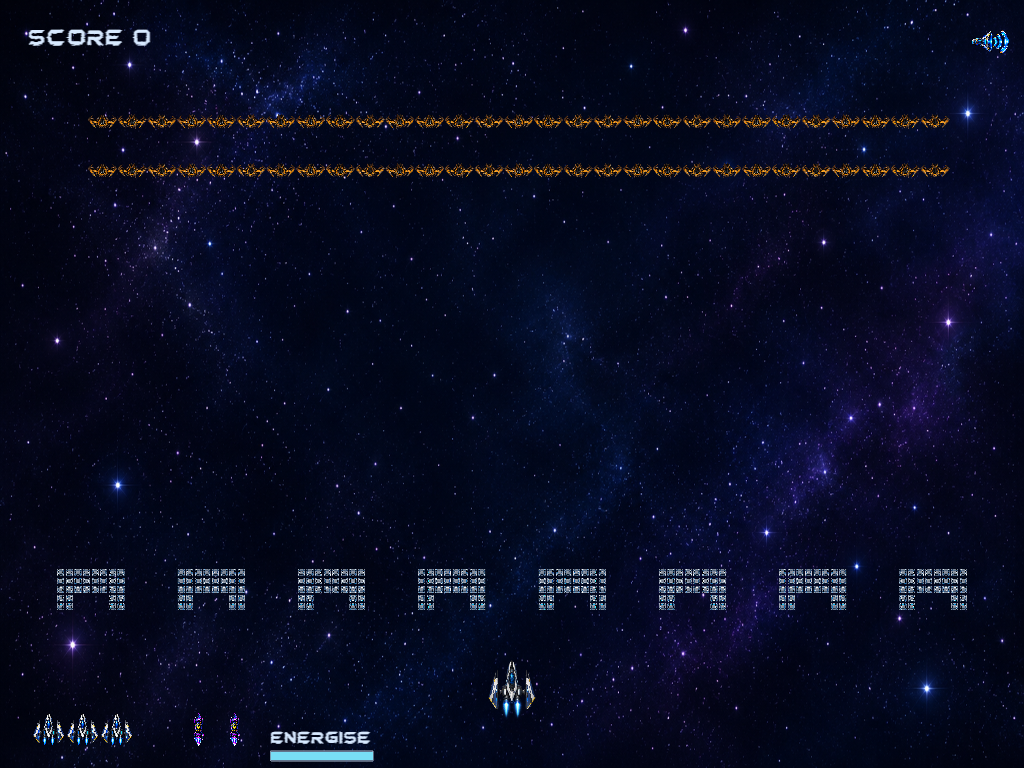
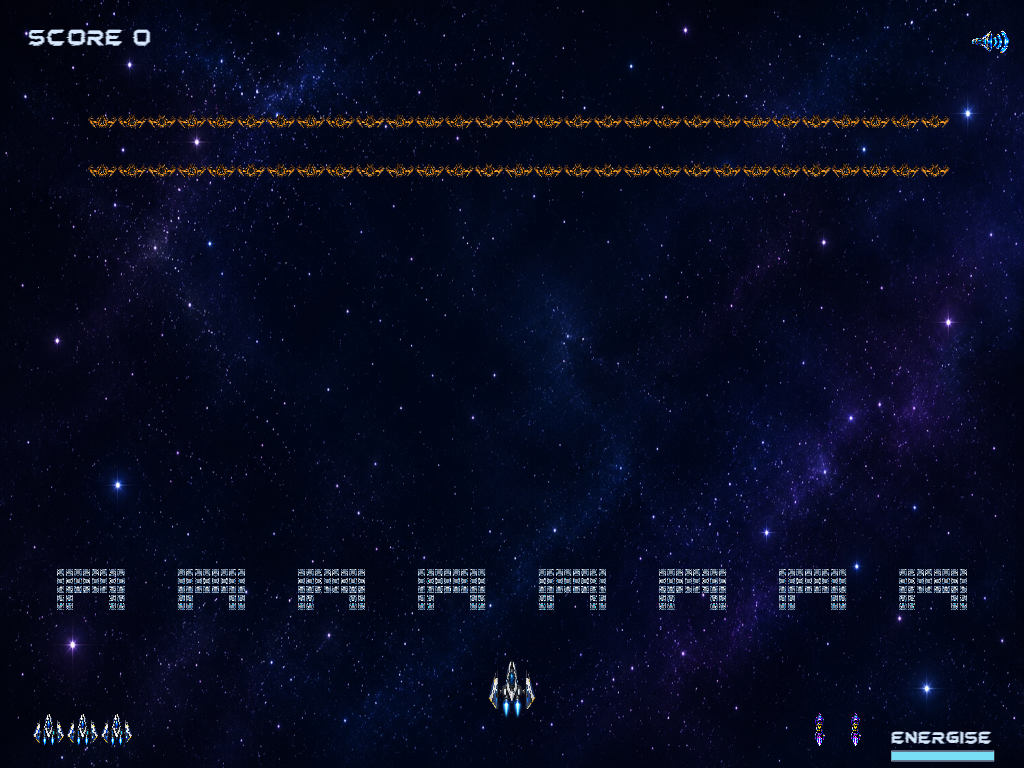
fix level1 hud placement and swept laser collisions

Changed region(s): [[0.1875, 0.9375, 0.375, 1.0], [0.875, 0.9375, 0.9688, 1.0], [0.7812, 0.9375, 0.8438, 0.9688]]

diff --git a/game/src/scenes/Level1Scene.ts b/game/src/scenes/Level1Scene.ts
@@ -15,6 +15,10 @@ import { ScoreSystem } from '../systems/ScoreSystem';
 
 type TerminalState = 'complete' | 'failed';
 type PlayerState = 'active' | 'hit' | 'regenerating';
+type SweptHitTarget =
+  | { kind: 'player'; body: Phaser.Physics.Arcade.Body }
+  | { kind: 'scout'; body: Phaser.Physics.Arcade.Body; scout: Phaser.Physics.Arcade.Sprite }
+  | { kind: 'shield'; body: Phaser.Physics.Arcade.Body; tile: Phaser.Physics.Arcade.Image };
 
 const SHIELD_MATRIX = [
   [1, 1, 1, 1, 1, 1, 1, 1],
@@ -26,6 +30,7 @@ const SHIELD_MATRIX = [
 
 interface HostileQaApi {
   firePlayerLaserAtScout: (index?: number, offsetX?: number) => Record<string, unknown>;
+  firePlayerLaserForVisual: (offsetX?: number) => Record<string, unknown>;
   fireEnemyLaserAtPlayer: (offsetX?: number) => Record<string, unknown>;
   fireEnemyLaserAtShield: (index?: number) => Record<string, unknown>;
   firePlayerLaserAtShield: (index?: number) => Record<string, unknown>;
@@ -173,7 +178,9 @@ export class Level1Scene extends Phaser.Scene {
     this.updateNukeRearm(deltaMs);
     this.#player.clampToPlayfield(this.#layout);
     this.updateScouts(time);
+    this.resolveSweptProjectileCollisions();
     this.cleanupProjectiles();
+    this.recordProjectilePreviousPositions();
     this.checkTerminalConditions();
     this.publishQaState();
   }
@@ -324,8 +331,7 @@ export class Level1Scene extends Phaser.Scene {
     const barWidth = Phaser.Math.Clamp(this.#layout.viewport.width * 0.1, 72, 170);
     const lifeSpacing = 34;
     const nukeSpacing = 36;
-    const lifeClusterRight = left + 20 + (this.#lifeIcons.length - 1) * lifeSpacing + 26;
-    const nukeBarX = Phaser.Math.Clamp(lifeClusterRight + 128, left + 220, right - barWidth);
+    const nukeBarX = right - barWidth;
     this.#scoreText.setPosition(left, this.#layout.hudSafeRect.y + 12);
     this.#soundIcon.setPosition(right - 4, this.#layout.hudSafeRect.y + 28);
     this.#lifeIcons.forEach((icon, index) => {
@@ -352,12 +358,10 @@ export class Level1Scene extends Phaser.Scene {
       this.damagePlayer(true);
     });
     this.physics.add.overlap(this.#enemyLasers, this.#shieldTiles, (laser, tile) => {
-      this.destroyProjectile(laser as Phaser.Physics.Arcade.Image);
-      this.destroyShieldTile(tile as Phaser.Physics.Arcade.Image, true);
+      this.handleEnemyLaserShieldOverlap(laser as Phaser.Physics.Arcade.Image, tile as Phaser.Physics.Arcade.Image);
     });
     this.physics.add.overlap(this.#playerLasers, this.#shieldTiles, (laser, tile) => {
-      this.destroyProjectile(laser as Phaser.Physics.Arcade.Image);
-      this.destroyShieldTile(tile as Phaser.Physics.Arcade.Image, false);
+      this.handlePlayerLaserShieldOverlap(laser as Phaser.Physics.Arcade.Image, tile as Phaser.Physics.Arcade.Image);
     });
     this.physics.add.overlap(this.#nukes, this.#scouts, (nuke, scout) => {
       this.handleNukeScoutOverlap(nuke as Phaser.Physics.Arcade.Sprite, scout as Phaser.Physics.Arcade.Sprite);
@@ -476,6 +480,8 @@ export class Level1Scene extends Phaser.Scene {
     const body = laser.body as Phaser.Physics.Arcade.Body;
     body.enable = true;
     body.setSize(this.#layout.projectileBodySize.width / laser.scaleX, this.#layout.projectileBodySize.height / laser.scaleY, true);
+    laser.setData('previousBodyCenterX', body.x + body.width / 2);
+    laser.setData('previousBodyCenterY', body.y + body.height / 2);
   }
 
   private reflowActiveProjectiles(): void {
@@ -486,6 +492,8 @@ export class Level1Scene extends Phaser.Scene {
       laser.setDisplaySize(this.#layout.projectileSize.width, this.#layout.projectileSize.height);
       const body = laser.body as Phaser.Physics.Arcade.Body;
       body.setSize(this.#layout.projectileBodySize.width / laser.scaleX, this.#layout.projectileBodySize.height / laser.scaleY, true);
+      laser.setData('previousBodyCenterX', body.x + body.width / 2);
+      laser.setData('previousBodyCenterY', body.y + body.height / 2);
     }
     for (const nuke of this.#nukes.getChildren() as Phaser.Physics.Arcade.Sprite[]) {
       if (!nuke.active) {
@@ -511,6 +519,106 @@ export class Level1Scene extends Phaser.Scene {
     laser.setData('spent', true);
     this.destroyProjectile(laser);
     this.damagePlayer();
+  }
+
+  private handleEnemyLaserShieldOverlap(laser: Phaser.Physics.Arcade.Image, tile: Phaser.Physics.Arcade.Image): void {
+    if (laser.getData('spent')) {
+      return;
+    }
+    laser.setData('spent', true);
+    this.destroyProjectile(laser);
+    this.destroyShieldTile(tile, true);
+  }
+
+  private handlePlayerLaserShieldOverlap(laser: Phaser.Physics.Arcade.Image, tile: Phaser.Physics.Arcade.Image): void {
+    if (laser.getData('spent')) {
+      return;
+    }
+    laser.setData('spent', true);
+    this.destroyProjectile(laser);
+    this.destroyShieldTile(tile, false);
+  }
+
+  private resolveSweptProjectileCollisions(): void {
+    for (const laser of this.#playerLasers.getChildren() as Phaser.Physics.Arcade.Image[]) {
+      if (!laser.active || laser.getData('spent')) {
+        continue;
+      }
+      const candidates: SweptHitTarget[] = [
+        ...this.getActiveShieldTiles().map((tile) => ({ kind: 'shield' as const, tile, body: tile.body as Phaser.Physics.Arcade.Body })),
+        ...this.getActiveScouts().map((scout) => ({ kind: 'scout' as const, scout, body: scout.body as Phaser.Physics.Arcade.Body })),
+      ];
+      const hit = this.findSweptHit(laser, -1, candidates);
+      if (hit?.kind === 'shield') {
+        this.handlePlayerLaserShieldOverlap(laser, hit.tile);
+      } else if (hit?.kind === 'scout') {
+        this.handlePlayerLaserScoutOverlap(laser, hit.scout);
+      }
+    }
+
+    for (const laser of this.#enemyLasers.getChildren() as Phaser.Physics.Arcade.Image[]) {
+      if (!laser.active || laser.getData('spent')) {
+        continue;
+      }
+      const playerBody = this.#player.sprite.body as Phaser.Physics.Arcade.Body;
+      const candidates: SweptHitTarget[] = [
+        ...this.getActiveShieldTiles().map((tile) => ({ kind: 'shield' as const, tile, body: tile.body as Phaser.Physics.Arcade.Body })),
+        { kind: 'player', body: playerBody },
+      ];
+      const hit = this.findSweptHit(laser, 1, candidates);
+      if (hit?.kind === 'shield') {
+        this.handleEnemyLaserShieldOverlap(laser, hit.tile);
+      } else if (hit?.kind === 'player') {
+        this.handleEnemyLaserPlayerOverlap(laser);
+      }
+    }
+  }
+
+  private findSweptHit(
+    projectile: Phaser.Physics.Arcade.Image,
+    directionY: -1 | 1,
+    targets: SweptHitTarget[],
+  ): SweptHitTarget | null {
+    const projectileBody = projectile.body as Phaser.Physics.Arcade.Body;
+    const currentX = projectileBody.x + projectileBody.width / 2;
+    const currentY = projectileBody.y + projectileBody.height / 2;
+    const previousX = Number(projectile.getData('previousBodyCenterX') ?? currentX);
+    const previousY = Number(projectile.getData('previousBodyCenterY') ?? currentY);
+    const minY = Math.min(previousY, currentY) - projectileBody.height / 2;
+    const maxY = Math.max(previousY, currentY) + projectileBody.height / 2;
+    const centerX = (previousX + currentX) / 2;
+    const halfWidth = projectileBody.width / 2;
+    let best: { target: SweptHitTarget; entry: number } | null = null;
+
+    for (const target of targets) {
+      if (!target.body.enable) {
+        continue;
+      }
+      const left = target.body.x - halfWidth;
+      const right = target.body.x + target.body.width + halfWidth;
+      const top = target.body.y - projectileBody.height / 2;
+      const bottom = target.body.y + target.body.height + projectileBody.height / 2;
+      if (centerX < left || centerX > right || maxY < top || minY > bottom) {
+        continue;
+      }
+      const entry = directionY > 0 ? top : bottom;
+      if (!best || (directionY > 0 ? entry < best.entry : entry > best.entry)) {
+        best = { target, entry };
+      }
+    }
+
+    return best?.target ?? null;
+  }
+
+  private recordProjectilePreviousPositions(): void {
+    for (const laser of [...this.#playerLasers.getChildren(), ...this.#enemyLasers.getChildren()] as Phaser.Physics.Arcade.Image[]) {
+      if (!laser.active) {
+        continue;
+      }
+      const body = laser.body as Phaser.Physics.Arcade.Body;
+      laser.setData('previousBodyCenterX', body.x + body.width / 2);
+      laser.setData('previousBodyCenterY', body.y + body.height / 2);
+    }
   }
 
   private destroyScoutBody(scout: Phaser.Physics.Arcade.Sprite, awardScore: boolean): void {
@@ -812,6 +920,10 @@ export class Level1Scene extends Phaser.Scene {
         }
         const laser = this.firePlayerLaser(Number.POSITIVE_INFINITY, scout.x + offsetX, scout.y + this.#layout.scoutSize.height * 0.95);
         return { fired: Boolean(laser), scoutX: scout.x, laserX: laser?.x, offsetX };
+      },
+      firePlayerLaserForVisual: (offsetX = 0) => {
+        const laser = this.firePlayerLaser(Number.POSITIVE_INFINITY, this.#player.sprite.x + offsetX, this.#player.sprite.y - this.#layout.playerSize.height * 0.52);
+        return { fired: Boolean(laser), playerX: this.#player.sprite.x, laserX: laser?.x, offsetX };
       },
       fireEnemyLaserAtPlayer: (offsetX = 0) => {
         const laser = this.#enemyLasers.get(this.#player.sprite.x + offsetX, this.#player.sprite.y - this.#layout.playerSize.height * 0.42, RUNTIME_ASSETS.projectile.enemyLaser.key) as Phaser.Physics.Arcade.Image | null;

diff --git a/game/src/systems/PlayfieldLayout.ts b/game/src/systems/PlayfieldLayout.ts
@@ -100,10 +100,10 @@ export function createPlayfieldLayout(width: number, height: number): PlayfieldL
     projectileSize,
     nukeProjectileSize: { width: clamp(playerSize.height * 0.8, 48, 68), height: clamp(playerSize.height * 0.26, 16, 24) },
     nukeBurstSize: { width: clamp(playerSize.height * 2.6, 150, 220), height: clamp(playerSize.height * 2.6, 150, 220) },
-    playerBodySize: { width: playerSize.width * 0.48, height: playerSize.height * 0.62 },
-    scoutBodySize: { width: scoutSize.width * 0.74, height: scoutSize.height * 0.62 },
+    playerBodySize: { width: playerSize.width * 0.64, height: playerSize.height * 0.72 },
+    scoutBodySize: { width: scoutSize.width * 0.86, height: scoutSize.height * 0.74 },
     shieldBodySize: { width: shieldTile * 0.92, height: shieldTile * 0.92 },
-    projectileBodySize: { width: projectileSize.height * 0.78, height: projectileSize.width * 0.86 },
-    nukeProjectileBodySize: { width: clamp(playerSize.height * 0.22, 14, 21), height: clamp(playerSize.height * 0.72, 44, 62) },
+    projectileBodySize: { width: projectileSize.height * 1.08, height: projectileSize.width * 0.96 },
+    nukeProjectileBodySize: { width: clamp(playerSize.height * 0.32, 18, 28), height: clamp(playerSize.height * 0.86, 52, 72) },
   };
 }

diff --git a/docs/internal_governance/registers/GG_REGISTER_EVIDENCE.md b/docs/internal_governance/registers/GG_REGISTER_EVIDENCE.md
@@ -100,6 +100,6 @@
 | GG-DEVTEAM-010-REV2-EV-005 | GALACTIC_GUNNERS_DEVTEAM_HANDOFF_IN_010_REV2 | sealed Handoff-Out REV2 | `docs/internal_governance/handoff_out/_archive/GALACTIC_GUNNERS_DEVTEAM_HANDOFF_OUT_010_REV2/04_SEALED_RETURN/GALACTIC_GUNNERS_DEVTEAM_HANDOFF_OUT_010_REV2.md` | recorded externally after sealing | 2026-08-25 | CURRENT | Non-self-referential REV2 Handoff-Out record; final pushed SHA and local/remote equality recorded externally after final push. |
 | GG-DEVTEAM-010-REV3-EV-001 | GALACTIC_GUNNERS_DEVTEAM_HANDOFF_IN_010_REV3 | inbound commission and transport preservation | `docs/internal_governance/handoff_in/_archive/GALACTIC_GUNNERS_DEVTEAM_HANDOFF_IN_010_REV3/` | direct pasted commission SHA-256 7CD02D0795B26EE9BE90659E407980221AB7C2C56E0CD8E6ECDA590E56195B9D; transport ZIP SHA-256 2A73CE8AD99B36600E942916731D3BBED58C1BFCD205147A6528A36B230D3912 | 2026-08-25 | CURRENT | REV3 Founder/CTO commission preserved; transport pack hashed, inventoried, unpacked into inspectable governed archive files and removed from POST_BOX. |
 | GG-DEVTEAM-010-REV3-EV-002 | GALACTIC_GUNNERS_DEVTEAM_HANDOFF_IN_010_REV3 | scale and gameplay composition correction evidence | `docs/internal_governance/evidence/GALACTIC_GUNNERS_DEVTEAM_HANDOFF_IN_010_REV3/REV3_SCALE_GAMEPLAY_CORRECTION.md` | PASS | 2026-08-25 | CURRENT | Records REV2->REV3 scale table, laser source/render/body dimensions, projectile speed derivation, 8-bunker proof, nuke asset IDs/hashes, nuke/rearm trace, pause trace and scope exclusions. |
-| GG-DEVTEAM-010-REV3-EV-003 | GALACTIC_GUNNERS_DEVTEAM_HANDOFF_IN_010_REV3 | hostile runtime and visual composition evidence | `docs/internal_governance/evidence/GALACTIC_GUNNERS_DEVTEAM_HANDOFF_IN_010_REV3/browser_runtime/` | runtime-hostile-verification.json SHA-256 4A51B01C2B09661C1FB275D59BA0C820ED144F9A8E50C401D0242C60DAA47F4A | 2026-08-25 | CURRENT | Verifies expected player/scout visual contracts, 58 enemies, 8 bunkers, 256 shield tiles, 1.18 lower shield gap, real-origin laser hit/near-miss, laser visual/body mapping, bottom-left icon-only lives/nukes with `ENERGISE` bar, sound top-right, scout orientation, pause/resume, retained REV2 hostile cases and unexpected console/network failures 0. |
+| GG-DEVTEAM-010-REV3-EV-003 | GALACTIC_GUNNERS_DEVTEAM_HANDOFF_IN_010_REV3 | hostile runtime and visual composition evidence | `docs/internal_governance/evidence/GALACTIC_GUNNERS_DEVTEAM_HANDOFF_IN_010_REV3/browser_runtime/` | runtime-hostile-verification.json SHA-256 420124D7B32D17CA86E314500D11EFBA3138CFFA7A6CADBC4419E27DE739CD1F | 2026-08-25 | CURRENT | Verifies expected player/scout visual contracts, 58 enemies, 8 bunkers, 256 shield tiles, 1.18 lower shield gap, real-origin laser hit/near-miss, widened laser/body mapping, swept collision checks, enemy laser left/center/right player-body lane hits, bottom-left icon-only lives, bottom-right icon-only nukes with `ENERGISE` bar, sound top-right, scout orientation, pause/resume, retained REV2 hostile cases and unexpected console/network failures 0. |
 | GG-DEVTEAM-010-REV3-EV-004 | GALACTIC_GUNNERS_DEVTEAM_HANDOFF_IN_010_REV3 | quality and Docker runtime evidence | `docs/internal_governance/evidence/GALACTIC_GUNNERS_DEVTEAM_HANDOFF_IN_010_REV3/QUALITY_RESULTS.md` | PASS | 2026-08-25 | CURRENT | Records `npm run quality`, Docker rebuild/start and hostile runtime PASS at `http://localhost:3002`. |
 | GG-DEVTEAM-010-REV3-EV-005 | GALACTIC_GUNNERS_DEVTEAM_HANDOFF_IN_010_REV3 | sealed Handoff-Out REV3 | `docs/internal_governance/handoff_out/_archive/GALACTIC_GUNNERS_DEVTEAM_HANDOFF_OUT_010_REV3/04_SEALED_RETURN/GALACTIC_GUNNERS_DEVTEAM_HANDOFF_OUT_010_REV3.md` | recorded externally after sealing | 2026-08-25 | CURRENT | Non-self-referential REV3 Handoff-Out record; final pushed SHA and local/remote equality recorded externally after final push. |

diff --git a/docs/internal_governance/evidence/GALACTIC_GUNNERS_DEVTEAM_HANDOFF_IN_010_REV3/REV3_SCALE_GAMEPLAY_CORRECTION.md b/docs/internal_governance/evidence/GALACTIC_GUNNERS_DEVTEAM_HANDOFF_IN_010_REV3/REV3_SCALE_GAMEPLAY_CORRECTION.md
@@ -27,7 +27,7 @@ Player laser source: `1912 x 823`, asset `GG-SPRITE-SPRITES-OBJECTS-GG-PLAYER-LA
 
[1 lines of base64/hex data omitted]
 
-Runtime display uses local horizontal beam length/thickness before rotation. Arcade body is vertical after rotation: width = core thickness, height = core length. Hostile evidence verifies rendered world bounds are taller than wide and collider bodies match the vertical beam.
+Runtime display uses local horizontal beam length/thickness before rotation. Arcade body is vertical after rotation: width = core thickness, height = core length. Hostile evidence verifies rendered world bounds are taller than wide and collider bodies match the vertical beam. Projectile and ship bodies use widened meaningful visual envelopes, and the runtime adds swept laser collision checks so frame-step movement cannot skip player/scout/shield targets.
 
 Projectile speed authority:
 
@@ -54,8 +54,8 @@ Nuke asset IDs and hashes:
 
 Runtime trace:
 
-- Initial nukes: two visible nuke icons positioned bottom-left, immediately left of the `ENERGISE` bar.
-- Initial rearm: full fixed `ENERGISE` bar positioned bottom-left to the right of the nuke icons.
+- Initial nukes: two visible nuke icons positioned bottom-right, immediately left of the `ENERGISE` bar.
+- Initial rearm: full fixed `ENERGISE` bar positioned bottom-right to the right of the nuke icons.
 - `N` fires one nuke, decrements count once, resets rearm, displays projectile, detonates into canonical burst and applies normal scout +25 scoring once per destroyed scout.
 - Count never becomes negative.
 - HUD reflects live nuke count through icon pips only; no visible numeric nuke counter is rendered.
@@ -66,7 +66,8 @@ Runtime trace:
 
 - Lives render as three owned ship icon pips only, 15% larger than the previous HUD icon; no visible numeric life counter is rendered.
 - Nukes render as owned nuke icon pips only, 15% larger than the previous HUD icon; no visible numeric nuke counter is rendered.
-- Nuke pips and the fixed `ENERGISE` bar render as a bottom-left group, with pips growing left of the bar.
+- Nuke pips and the fixed `ENERGISE` bar render as a bottom-right group, with pips growing left of the bar.
+- Enemy laser hostile verification covers left, center and right player-body lanes plus a near-miss lane.
 - Score remains top-left and sound/mute icon remains top-right.
 - Scout ships are rotated to the correct enemy orientation.
 - Explosion, nuke projectile and nuke burst runtime sheets use the owned horizontal/upright sheets to avoid boxed/clipped animation.
@@ -83,7 +84,7 @@ Runtime trace:
 ## Evidence
 
 - Hostile runtime report: `docs/internal_governance/evidence/GALACTIC_GUNNERS_DEVTEAM_HANDOFF_IN_010_REV3/browser_runtime/runtime-hostile-verification.json`.
[2 lines of base64/hex data omitted]
 - Screenshots include player/enemy laser mid-flight, nuke projectile, nuke burst, pause overlay, viewport matrix, mission complete/failed and active resize.
 - Transport receiving record: `docs/internal_governance/handoff_in/_archive/GALACTIC_GUNNERS_DEVTEAM_HANDOFF_IN_010_REV3/TRANSPORT_RECEIVING_RECORD.md`.
 - Transport member inventory: `docs/internal_governance/handoff_in/_archive/GALACTIC_GUNNERS_DEVTEAM_HANDOFF_IN_010_REV3/transport_pack_member_inventory.json`.

diff --git a/docs/internal_governance/registers/GG_REGISTER_PROJECT_STATE.md b/docs/internal_governance/registers/GG_REGISTER_PROJECT_STATE.md
@@ -22,11 +22,11 @@
 | Living Registers | `docs/internal_governance/registers` |
 | POST_BOX Closed State | boundary/readme controls only; active payload zero |
 | Production Architecture Foundation | PASS - Django/DRF backend, PostgreSQL Docker topology, Next.js web shell, Phaser/TypeScript game package, contracts and CI gates reconciled |
-| v1.0 Sprint 001 Runtime | PASS - `/play` mounts Phaser Boot/MainMenu/Level1 vertical slice with semantic PlayfieldLayout, REV3 player/scout visual contracts, 58-enemy formation, four-direction player movement, 8 shield bunkers / 256 tiles, normal/nuke projectile collisions, bottom-left icon-only lives/nukes and `ENERGISE` bar, top-left score, top-right sound, pause overlay and temporary slice terminal states |
+| v1.0 Sprint 001 Runtime | PASS - `/play` mounts Phaser Boot/MainMenu/Level1 vertical slice with semantic PlayfieldLayout, REV3 player/scout visual contracts, 58-enemy formation, four-direction player movement, 8 shield bunkers / 256 tiles, normal/nuke projectile collisions, swept laser collision reliability, bottom-left icon-only lives, bottom-right icon-only nukes and `ENERGISE` bar, top-left score, top-right sound, pause overlay and temporary slice terminal states |
 | Backend API | PASS - `/api/v1/health/`, `/api/v1/game-runs/`, `/api/v1/game-runs/{runId}/complete/`, `/api/v1/leaderboard/` |
 | Contract Authority | PASS - OpenAPI 3.1 plus JSON Schema draft 2020-12 validated by `scripts/validate-contracts.mjs` |
 | Docker Full Stack | AVAILABLE - web host `3002`, backend host `8010`, db internal only |
-| Handoff 010 REV3 Quality Gate | PASS - `npm run quality`; Docker build/start; hostile browser runtime verifier including REV3 scale/layout contracts, laser geometry/body mapping, real-origin hits/near-misses, 8 bunkers, bottom-left icon-only nukes/`ENERGISE` HUD, top-right sound, scout orientation, pause/resume, respawn, shields and projectile collision families |
+| Handoff 010 REV3 Quality Gate | PASS - `npm run quality`; Docker build/start; hostile browser runtime verifier including REV3 scale/layout contracts, laser geometry/body mapping, swept collision checks, real-origin hits/near-misses, enemy laser left/center/right player-body hits, 8 bunkers, bottom-right icon-only nukes/`ENERGISE` HUD, top-right sound, scout orientation, pause/resume, respawn, shields and projectile collision families |
 | Full Level 1 | NOT CLAIMED |
 | Level 2 | NOT STARTED |
 | Boss / Final Victory / Final Game Over | NOT STARTED |

diff --git a/docs/internal_governance/handoff_out/_archive/GALACTIC_GUNNERS_DEVTEAM_HANDOFF_OUT_010_REV3/04_SEALED_RETURN/GALACTIC_GUNNERS_DEVTEAM_HANDOFF_OUT_010_REV3.md b/docs/internal_governance/handoff_out/_archive/GALACTIC_GUNNERS_DEVTEAM_HANDOFF_OUT_010_REV3/04_SEALED_RETURN/GALACTIC_GUNNERS_DEVTEAM_HANDOFF_OUT_010_REV3.md
@@ -21,7 +21,7 @@ Corrected:
 - real-origin player laser direct hit and near miss hostile cases added;
 - shield bunkers restored to 8, 256 active shield tiles;
 - shield lower-lane gap derived from new player height at 1.18 player heights;
-- nukes restored with max 2, icon-only bottom-left HUD pips, fixed `ENERGISE` bar to their right, `N`, gamepad Y action path, projectile, burst, audio and exact normal scout scoring;
+- nukes restored with max 2, icon-only bottom-right HUD pips, fixed `ENERGISE` bar to their right, `N`, gamepad Y action path, projectile, burst, audio and exact normal scout scoring;
 - lives restored as icon-only bottom-left HUD pips, with no numeric life counter;
 - score remains top-left and sound/mute remains top-right;
 - pause restored with `P`, PauseScene overlay, frozen Level1 state and exact resume;
@@ -43,8 +43,9 @@ Hostile runtime PASS includes:
 - 8 bunkers / 256 shield tiles;
 - shield lower-lane gap 1.18 player heights;
 - real-origin player laser direct hit and near miss;
-- player/enemy laser rendered dimensions and collider dimensions;
-- nuke projectile/burst and bottom-left icon-only HUD / `ENERGISE` trace;
+- player/enemy laser rendered dimensions, widened collider dimensions and swept collision checks;
+- enemy laser left/center/right player-body lane hit proof;
+- nuke projectile/burst and bottom-right icon-only HUD / `ENERGISE` trace;
 - icon-only lives HUD and top-right sound/mute trace;
 - pause/resume freeze trace;
 - retained REV2 hostile coverage;

diff --git a/docs/internal_governance/evidence/GALACTIC_GUNNERS_DEVTEAM_HANDOFF_IN_010_REV3/QUALITY_RESULTS.md b/docs/internal_governance/evidence/GALACTIC_GUNNERS_DEVTEAM_HANDOFF_IN_010_REV3/QUALITY_RESULTS.md
@@ -19,10 +19,11 @@ Runtime URL: `http://localhost:3002`
 - Shield lower-lane gap: 1.18 new player heights, matching lower legacy-game base-tile topology.
 - Real-origin player laser direct hit: PASS.
 - Real-origin player laser near miss: PASS.
-- Player/enemy laser visual/body mapping: PASS.
-- Icon-only lives HUD, icon-only nuke HUD, bottom-left nuke pips growing left of the fixed `ENERGISE` rearm bar, and sound top-right: PASS.
+- Player/enemy laser visual/body mapping, widened body envelopes and swept collision checks: PASS.
+- Enemy laser left/center/right player-body lane hits: PASS.
+- Icon-only lives HUD, icon-only nuke HUD, bottom-right nuke pips growing left of the fixed `ENERGISE` rearm bar, and sound top-right: PASS.
 - Correct scout orientation: PASS.
-- Nuke initial icons, `N` fire, gamepad Y action path, upright projectile, unclipped burst, score exactness, non-negative count, bottom-left `ENERGISE` bar and HUD: PASS.
+- Nuke initial icons, `N` fire, gamepad Y action path, upright projectile, unclipped burst, score exactness, non-negative count, bottom-right `ENERGISE` bar and HUD: PASS.
 - Shield-hit explosion/scar feedback and unclipped small explosion animation: PASS.
 - Pause/resume freeze and repeat cleanliness: PASS.
 - Retained movement, diagonal normalization, respawn, shield collision, resize, terminal/menu/replay, online/offline backend and console/network checks: PASS.

diff --git a/docs/internal_governance/currentness/CURRENT_STATE.md b/docs/internal_governance/currentness/CURRENT_STATE.md
@@ -44,7 +44,7 @@ Evidence:
 DURABLE
 
 Runtime Gameplay:
-PASS - BootScene, MainMenuScene and bounded Level1 playable runtime corrected for REV3 scale/composition, semantic PlayfieldLayout authority, 58-enemy Level1 formation, four-direction player movement, respawn/regeneration, 8-bunker / 256-tile shield zone, rotated laser geometry/body alignment, normal real-origin laser hits/near-misses, nuke projectile/burst, bottom-left icon-only lives/nukes with fixed `ENERGISE` bar, top-left score, top-right sound, pause/resume and hostile runtime/composition verification.
+PASS - BootScene, MainMenuScene and bounded Level1 playable runtime corrected for REV3 scale/composition, semantic PlayfieldLayout authority, 58-enemy Level1 formation, four-direction player movement, respawn/regeneration, 8-bunker / 256-tile shield zone, rotated laser geometry/body alignment, widened meaningful body envelopes, swept laser collision checks, normal real-origin laser hits/near-misses, enemy laser left/center/right player-body hits, nuke projectile/burst, bottom-left icon-only lives, bottom-right icon-only nukes with fixed `ENERGISE` bar, top-left score, top-right sound, pause/resume and hostile runtime/composition verification.
 
 Full Level 1:
 NOT CLAIMED
